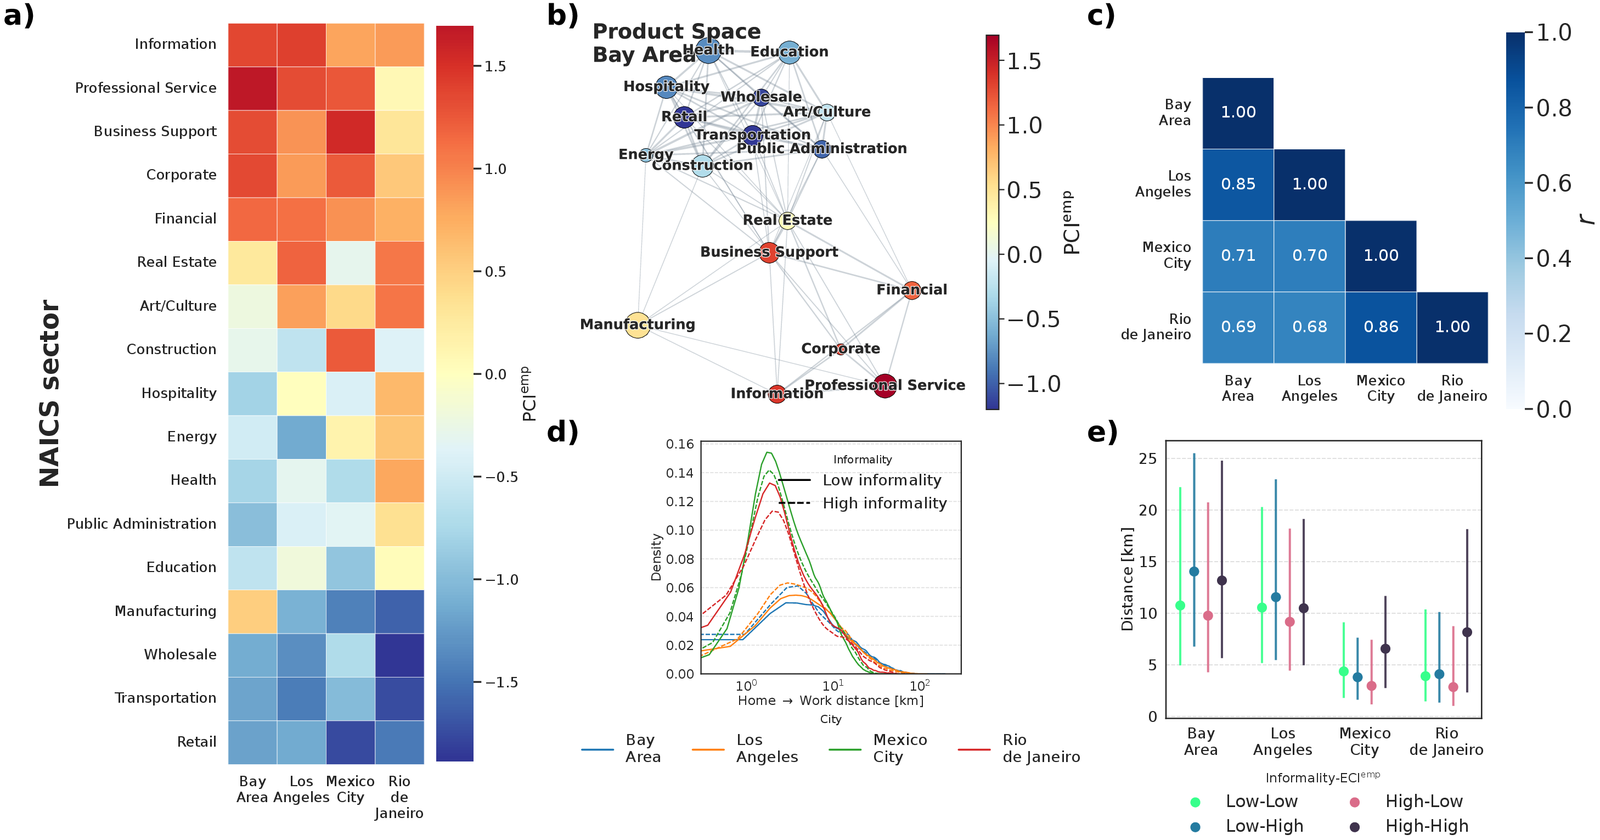
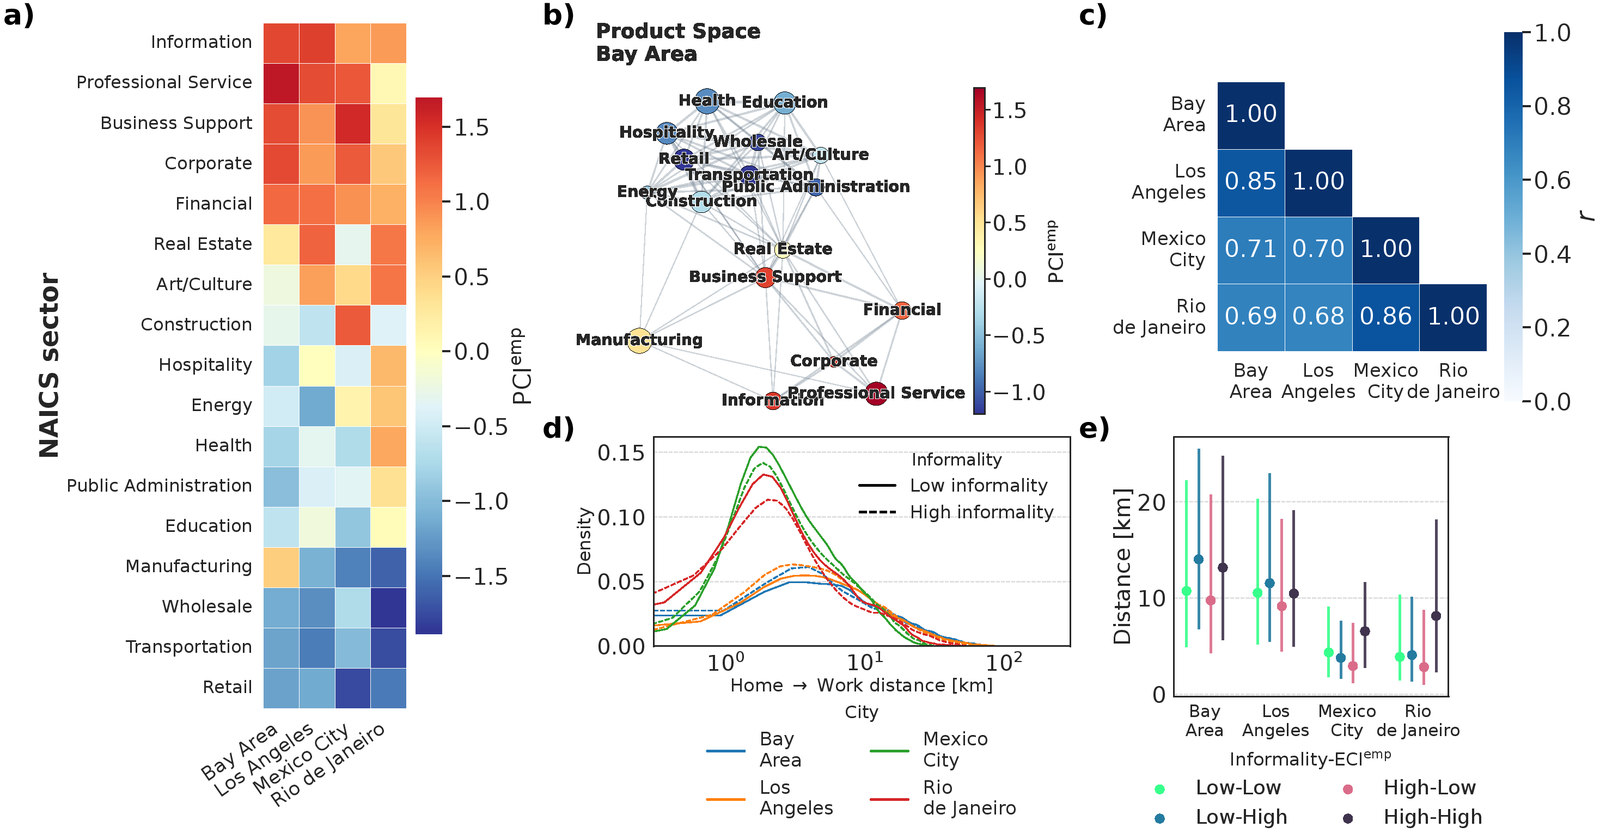
updated figures

diff --git a/src/SI/si_plots.py b/src/SI/si_plots.py
@@ -339,8 +339,8 @@ def plot_accessibility_scatters(combined_accessibility_df, city_order):
     return fig
 
 
-CITY_COLORS = {"Bay Area": "#2166ac", "Los Angeles": "#d6604d",
-               "Mexico City": "#b35806", "Rio de Janeiro": "#4dac26"}
+CITY_COLORS = {"Bay Area": "#0072B2", "Los Angeles": "#E69F00",
+               "Mexico City": "#009E73", "Rio de Janeiro": "#D55E00"}
 
 def _format_p(p):
     return "< 0.001" if p < 0.001 else f"= {p:.3f}"
@@ -391,7 +391,8 @@ def _row_letter(ax, index, x=-0.30, y=1.02):
 
 def plot_error_correlation_heatmaps(corr_tables, city_order):
     """Pairwise correlation between the residuals of every pair of models."""
-    fig, axes = plt.subplots(2, 2, figsize=(12, 11))
+    fig, axes = plt.subplots(2, 2, figsize=(14, 12),
+                             gridspec_kw={"wspace": 0.55, "hspace": 0.45})
 
     for i, city in enumerate(city_order):
         ax = axes[i // 2, i % 2]
@@ -400,14 +401,15 @@ def plot_error_correlation_heatmaps(corr_tables, city_order):
 
         sns.heatmap(corr, annot=True, fmt=".2f", cmap="RdBu_r",
                     vmin=0.5, vmax=1.0, square=True, mask=mask, cbar=False,
-                    linewidths=0.5, ax=ax, annot_kws={"size": 16})
+                    linewidths=0.5, ax=ax, annot_kws={"size": 15})
         ax.set_title(city, fontsize=22, fontweight="bold")
-        ax.tick_params(axis="both", labelsize=16)
+        ax.set_xticklabels(ax.get_xticklabels(), rotation=35, ha="right", fontsize=14)
+        ax.set_yticklabels(ax.get_yticklabels(), rotation=0, fontsize=14)
         _row_letter(ax, i, x=-0.22, y=1.06)
 
-    plt.tight_layout(rect=[0, 0, 0.86, 1])
+    fig.subplots_adjust(right=0.86)
 
-    cbar_ax = fig.add_axes([0.88, 0.15, 0.04, 0.7])
+    cbar_ax = fig.add_axes([0.90, 0.15, 0.03, 0.7])
     mappable = plt.cm.ScalarMappable(cmap="RdBu_r",
                                      norm=plt.Normalize(vmin=0.5, vmax=1.0))
     mappable.set_array([])
@@ -472,6 +474,15 @@ def plot_oos_scatter(oos_predictions, city_flows, city_order, model_order):
     fig, axes = plt.subplots(len(city_order), len(model_order),
                              figsize=(16, 16), sharex=True, sharey=True)
 
+    largest = 0.0
+    for city in city_order:
+        observed = city_flows[city].flatten()
+        for model in model_order:
+            predicted = np.round(oos_predictions[city][model]).flatten()
+            keep = ~np.isnan(observed) & ~np.isnan(predicted)
+            largest = max(largest, float(np.max(observed[keep])),
+                          float(np.max(predicted[keep])))
+
     for i, city in enumerate(city_order):
         observed = city_flows[city].flatten()
 
@@ -488,8 +499,7 @@ def plot_oos_scatter(oos_predictions, city_flows, city_order, model_order):
             ax.scatter(obs_plot, pred_plot, s=10, alpha=0.01,
                        color=MODEL_COLORS.get(model, "blue"), rasterized=True)
 
-            max_val = max(np.max(obs_plot), np.max(pred_plot))
-            ax.plot([0, max_val], [0, max_val], "r--", alpha=0.88)
+            ax.plot([0, largest], [0, largest], "r--", alpha=0.88)
 
             ax.text(0.05, 0.95, f"$r$ = {r:.2f}\nCPC = {cpc:.2f}",
                     transform=ax.transAxes, fontsize=16, verticalalignment="top",
@@ -505,8 +515,8 @@ def plot_oos_scatter(oos_predictions, city_flows, city_order, model_order):
 
             ax.set_xscale("log")
             ax.set_yscale("log")
-            ax.set_xlim(1, max_val * 1.1)
-            ax.set_ylim(1, max_val * 1.1)
+            ax.set_xlim(1, largest * 1.1)
+            ax.set_ylim(1, largest * 1.1)
             ax.tick_params(axis="both", labelsize=18)
 
     plt.tight_layout()
@@ -544,10 +554,10 @@ def plot_train_test_performance(results_df, city_order, model_names):
             ax.tick_params(axis="y", labelsize=18)
             if col == 0:
                 ax.set_ylabel(metric, fontsize=20)
+            ax.text(-0.12, 1.04, f"{chr(97 + row * 4 + col)})", transform=ax.transAxes,
+                    fontsize=26, fontweight="bold", va="bottom", ha="left")
             if row == 0:
-                ax.set_title(city, fontsize=22, fontweight="bold")
-                ax.text(-0.10, 1.16, f"{chr(97 + col)})", transform=ax.transAxes,
-                        fontsize=28, fontweight="bold", va="bottom", ha="left")
+                ax.set_title(city, fontsize=22, fontweight="bold", pad=26)
             if row == 0 and col == 0:
                 ax.legend(fontsize=18, loc="upper left")
 
@@ -818,8 +828,8 @@ def plot_eci_income_scatter(zone_frames, income_data, city_order):
         ax.set_ylabel(label, fontsize=22)
         ax.set_title(city, fontsize=22, fontweight="bold")
         ax.tick_params(labelsize=20)
-        ax.text(-0.30, 1.10, f"{chr(97 + i)})", transform=ax.transAxes,
-                fontsize=26, fontweight="bold", va="bottom", ha="left")
+        ax.text(0.0, 1.14, f"{chr(97 + i)})", transform=ax.transAxes,
+                fontsize=26, fontweight="bold", va="bottom", ha="right")
 
         side = "right" if r < 0 else "left"
         ax.text(0.97 if r < 0 else 0.03, 0.97, f"$r$ = {r:.2f} ($p$ {_format_p(p)})",
@@ -834,8 +844,8 @@ def plot_eci_income_scatter(zone_frames, income_data, city_order):
 SECTOR_MARKERS = {"Bay Area": "o", "Los Angeles": "s",
                   "Mexico City": "^", "Rio de Janeiro": "D"}
 
-SECTOR_COLORS = {"Bay Area": "#2166ac", "Los Angeles": "#4393c3",
-                 "Mexico City": "#d6604d", "Rio de Janeiro": "#b2182b"}
+SECTOR_COLORS = {"Bay Area": "#0072B2", "Los Angeles": "#E69F00",
+                 "Mexico City": "#009E73", "Rio de Janeiro": "#D55E00"}
 
 
 def plot_sector_crosscity(profiles, city_order):

diff --git a/src/visualization.py b/src/visualization.py
@@ -304,15 +304,16 @@ def create_accessibility_boxplots(combined_accessibility_df, city_order, z_df=No
             axes[1, col].text(0.5, 0.5, f'Error: {str(e)[:20]}...',
                              ha='center', va='center', transform=axes[1, col].transAxes)
 
+    plt.tight_layout(rect=[0, 0, 1, 0.92])
+    fig.canvas.draw()
+
     for row, label in enumerate(["a)   Distance-weighted accessibility",
                                  "b)   Consumer surplus accessibility",
                                  "c)   Mean z-score accessibility"]):
         pos = axes[row, 0].get_position()
-        gap = 0.05 if row == 0 else 0.02   # clear the city titles on the first row
+        gap = 0.055 if row == 0 else 0.022
         fig.text(0.1, pos.y0 + pos.height + gap, label,
                  fontsize=32, fontweight="bold", va="bottom")
-
-    plt.tight_layout(rect=[0, 0, 1, 0.92])
 
     return fig
 
@@ -326,7 +327,7 @@ def create_maps_with_histograms(all_city_data, city_order, figsize=(42, 26)):
         'legend.fontsize': 40, 'figure.figsize': figsize
     })
 
-    CITY_COLORS = dict(zip(city_order, sns.color_palette("tab10", 4)))
+    CITY_COLORS = dict(zip(city_order, ["#0072B2", "#E69F00", "#009E73", "#D55E00"]))
 
     def tidy_ticks(ax, x_vals, y_vals, fs=22):
         ax.set_xticks([round(np.nanmin(x_vals), 2), round(np.nanmax(x_vals), 2)])
